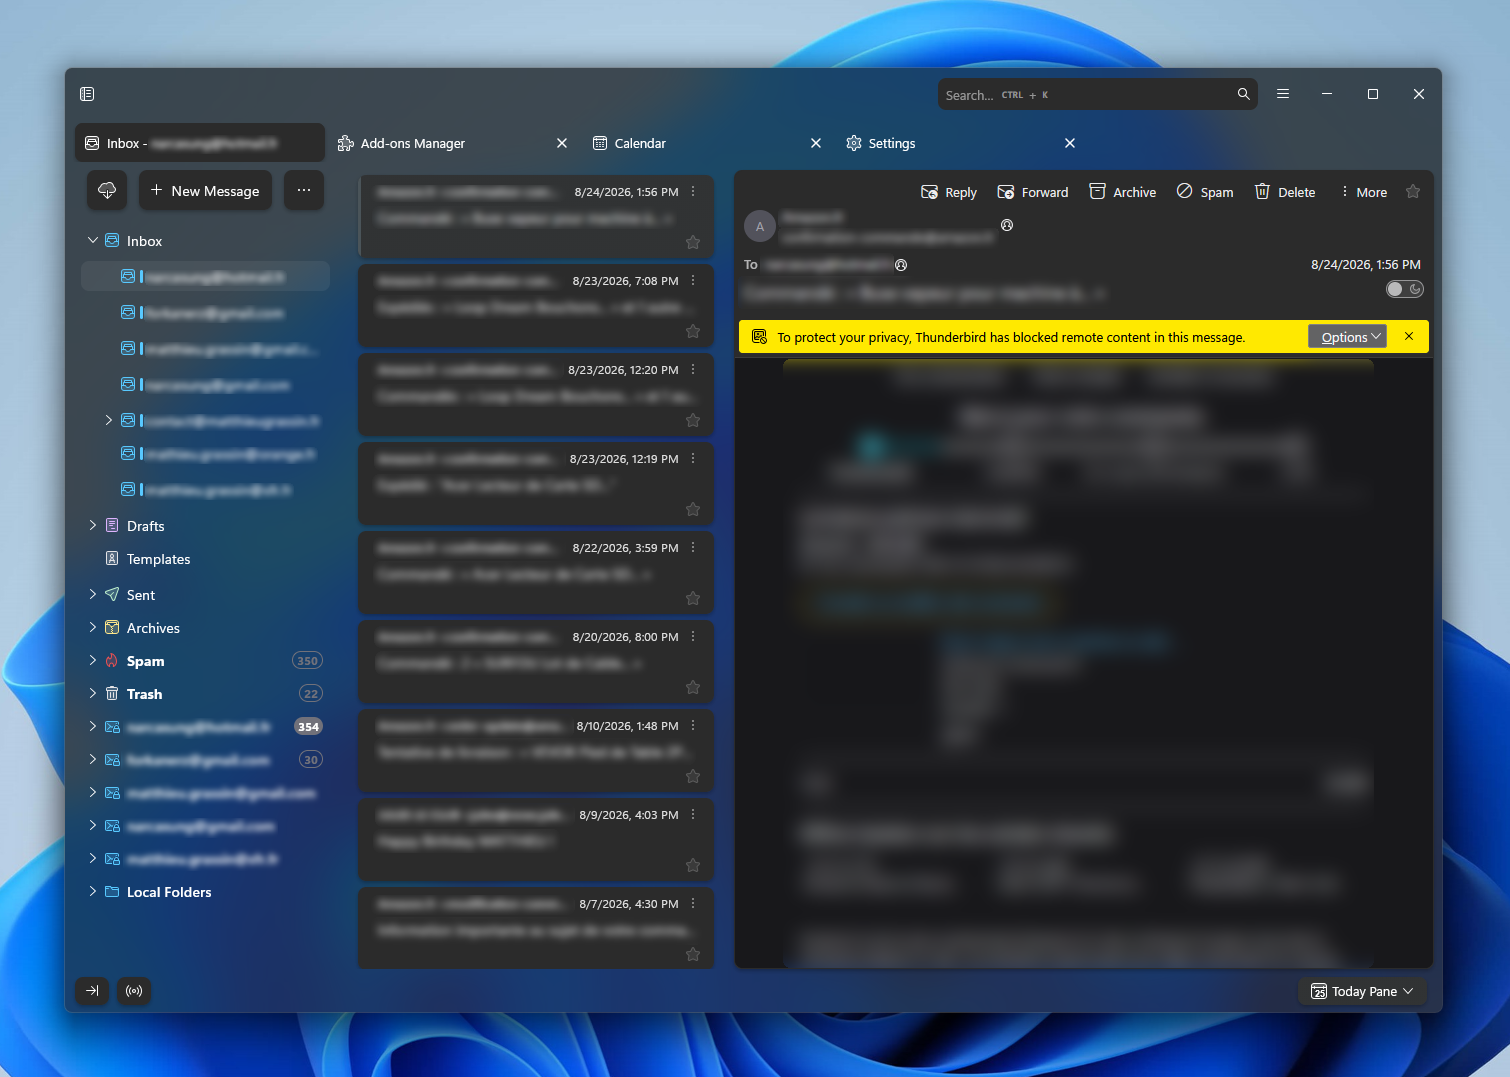
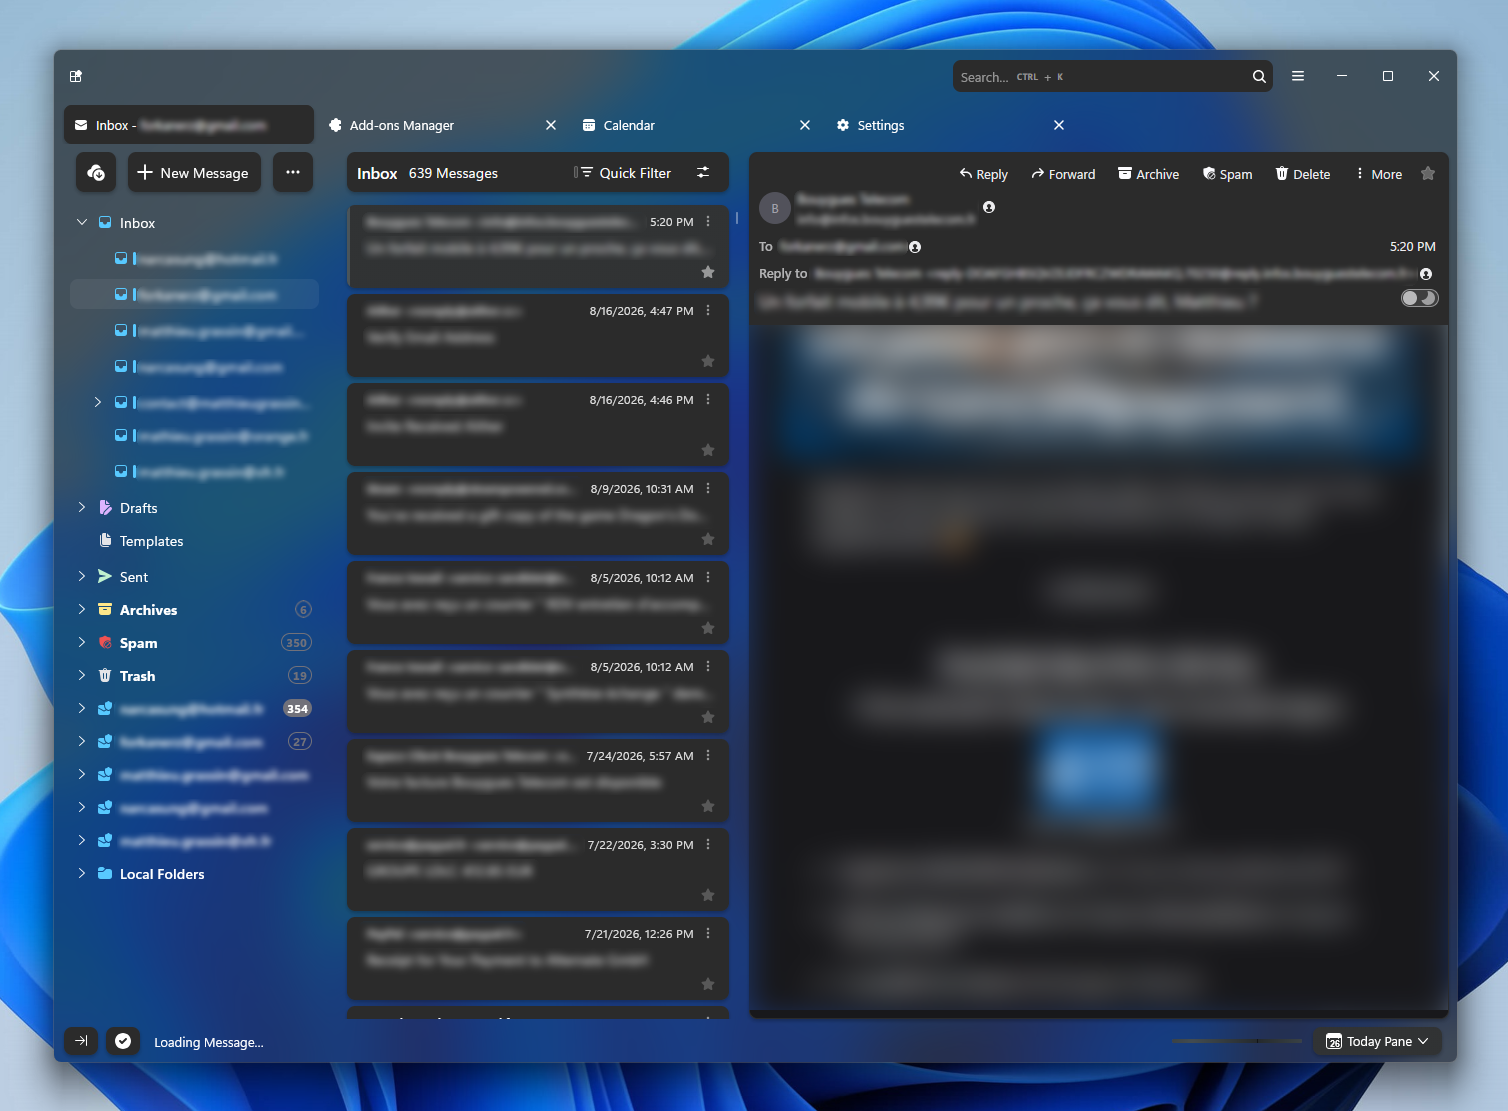
Update readme and preview images

diff --git a/README.md b/README.md
@@ -14,8 +14,26 @@
 - Reworked layout and appearance to match Microsoft Fluent 2's design system.
 - Light, Dark, or follow system mode option.
 - Toggleable mica background with transparency control.
+- Brand new icons from [Microsoft's FluentUI Icons](https://github.com/microsoft/fluentui-system-icons).
 
 ## Previews
+
+<details>
+   <summary>Calendar</summary>
+   <img style="border-radius:15px" src="screenshots/calendar.png"/>
+</details>
+<details>
+   <summary>Address Book</summary>
+   <img style="border-radius:15px" src="screenshots/address.png"/>
+</details>
+<details>
+   <summary>Settings</summary>
+   <img style="border-radius:15px" src="screenshots/settings.png"/>
+</details>
+<details>
+   <summary>Add-ons Manager with Spaces toolbar</summary>
+   <img style="border-radius:15px" src="screenshots/spaces.png"/>
+</details>
 
 ## Install
 
@@ -35,7 +53,6 @@ Recommended Thunderbird settings to get the preview's look:
 - View:
    - Layout:
       - Vertical View: On
-      - Message List Header: Off
    - Toolbars:
       - Menu Bar: Off
       - Spaces Toolbar: Off
